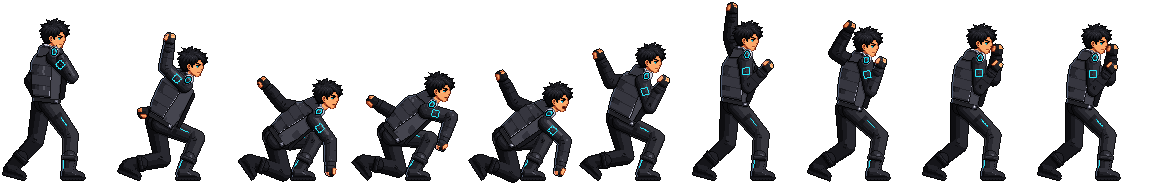
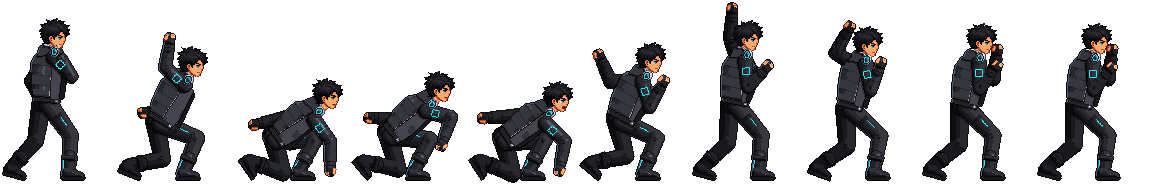
fix(art) : le bras arrière de Nayo ne sort plus de son dos sur la Mégabasse
Sur les frappes au sol (planches s2, s3 et s4), le bras arrière partait
vers le haut depuis le dos voûté : l'épaule cachée par la doudoune, il
semblait pousser du milieu du dos, poing en l'air. Il est maintenant
balayé vers l'arrière, le long du dos, le poing passé la hanche :
toujours le contrepoids de la frappe, sur la même ligne d'action, un
cran plus haut sur la 3e frappe.

La boîte de coups de la 3e frappe (tics 14 à 17) suit le dessin : son
haut passe de 55,5 à 49,5 px (measure-boxes).

Changed region(s): [[0.3957, 0.3784, 0.487, 0.6757], [0.213, 0.4054, 0.2739, 0.7027], [0.3043, 0.5135, 0.3652, 0.6757]]

diff --git a/tools/sprites/nayo/poses/super.ts b/tools/sprites/nayo/poses/super.ts
@@ -21,9 +21,10 @@ export const ANIMATED: boolean = true;
  * into the Uppercut's coil with that fist still cocked up by his ear, and hammers it straight
  * down into the floor, three times: BOUM, BOUM, BOUUUM. Down on the rear knee, the hips at the
  * bottom, the chest pitched over the lead knee and the head up on the opponent; one line from
- * the rear fist, flung up and back as the counterweight, through the shoulders and down the
- * lead arm to the floor. Between the blows the fist rebounds to knee height and the rear arm
- * pumps down against it. Each blow gives birth to a speaker ring of platine at the fist, a thick
+ * the rear fist, swept back along the back past the hip as the counterweight (never up off the
+ * hunched back, where the arm would seem to grow out of it), through the shoulders and down
+ * the lead arm to the floor. Between the blows the fist rebounds to knee height and the rear
+ * arm stays swept back. Each blow gives birth to a speaker ring of platine at the fist, a thick
  * white-hot ")" that rolls out and thins over the opponent, the older one at the hitbox's edge
  * at once (concentric ")" arcs standing on the floor); the 3rd blow drops him lower, throws the
  * three ")))" at once, the outer one white-hot, and cracks the floor. Under the fist, the
@@ -219,8 +220,8 @@ const COIL: Pose = {
 // s2 · The blow: the lead fist driven down into the floor ahead of the lead foot, the arm
 // slanting forward clear of the knee, the shoulder rolled into it; down on the rear knee (the
 // rear foot pivoting on its toe), the chest pitched over the lead knee, the head up on the
-// opponent; the rear arm flung up and back, nearly straight, the counterweight on the line of
-// action.
+// opponent; the rear arm swept back along the back, nearly straight, the fist out past the
+// hip: the counterweight on the line of action.
 const POUND: Pose = {
   hip: at(-6, 21),
   torso: 55,
@@ -231,14 +232,14 @@ const POUND: Pose = {
   nearFoot: planted(GUARD.nearFoot.x),
   farFoot: onToes(REAR_TOE, -55),
   nearFist: at(22, 7.5),
-  farFist: at(-9.5, 46.5),
+  farFist: at(-14, 28),
   bends: { nearElbow: 'up', farElbow: 'down' },
   face: 'effort',
 };
 
 // s4 · The 3rd blow: s2's pose with the whole weight in it, the hips a notch lower (as low as
 // the rear knee allows, a hair over the floor), the chest pitched a degree further and the lead
-// shoulder sunk into the punch, the rear arm flung higher. The shout.
+// shoulder sunk into the punch, the rear arm swept a notch higher. The shout.
 const SLAM: Pose = {
   ...POUND,
   hip: at(-6, 20.4),
@@ -246,12 +247,12 @@ const SLAM: Pose = {
   head: -37,
   reach: { near: 4 },
   farFoot: onToes(REAR_TOE, -57),
-  farFist: at(-6, 49.5),
+  farFist: at(-15, 31),
   face: 'kiai',
 };
 
 // s3 · The rebound: the fist bounces back up to knee height, the elbow cocked up behind it for
-// the next blow; the body comes up 2 px off the knee and the rear arm pumps down against it.
+// the next blow; the body comes up 2 px off the knee, the rear arm still swept back.
 const REBOUND: Pose = {
   ...POUND,
   hip: at(-6, 23),
@@ -261,7 +262,7 @@ const REBOUND: Pose = {
   twist: -0.2,
   farFoot: onToes(REAR_TOE, -50),
   nearFist: at(21, 20),
-  farFist: at(-12, 38),
+  farFist: at(-13, 31),
 };
 
 // s5 (6 ticks) · The rise: he drives up out of the kneel, the first and biggest part of the way

diff --git a/src/data/fighters/nayo-boost.ts b/src/data/fighters/nayo-boost.ts
@@ -68,7 +68,7 @@ export function nayoBoost(plain: PlainSpecials): BoostMoves {
           { frames: { from: 5, to: 8 }, boxes: [box(-25, 0, 38.5, 54.5)] },
           { frames: { from: 8, to: 11 }, boxes: [box(-24, 0, 37.5, 52)] },
           { frames: { from: 11, to: 14 }, boxes: [box(-25, 0, 38.5, 54.5)] },
-          { frames: { from: 14, to: 17 }, boxes: [box(-24, 0, 37.5, 55.5)] },
+          { frames: { from: 14, to: 17 }, boxes: [box(-24, 0, 37.5, 49.5)] },
           { frames: { from: 17, to: 23 }, boxes: [box(-26, 0, 39.5, 69)] },
           { frames: { from: 23, to: 30 }, boxes: [box(-27, 0, 40.5, 89)] },
           { frames: { from: 30, to: 37 }, boxes: [box(-27, 0, 40.5, 80)] },
